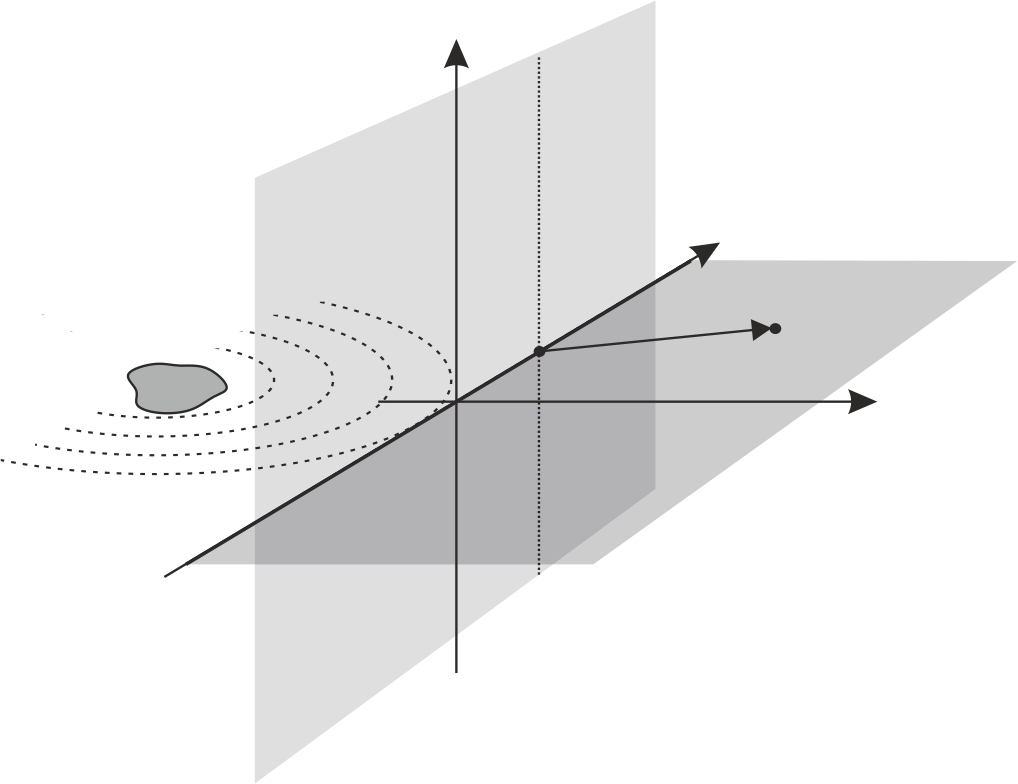
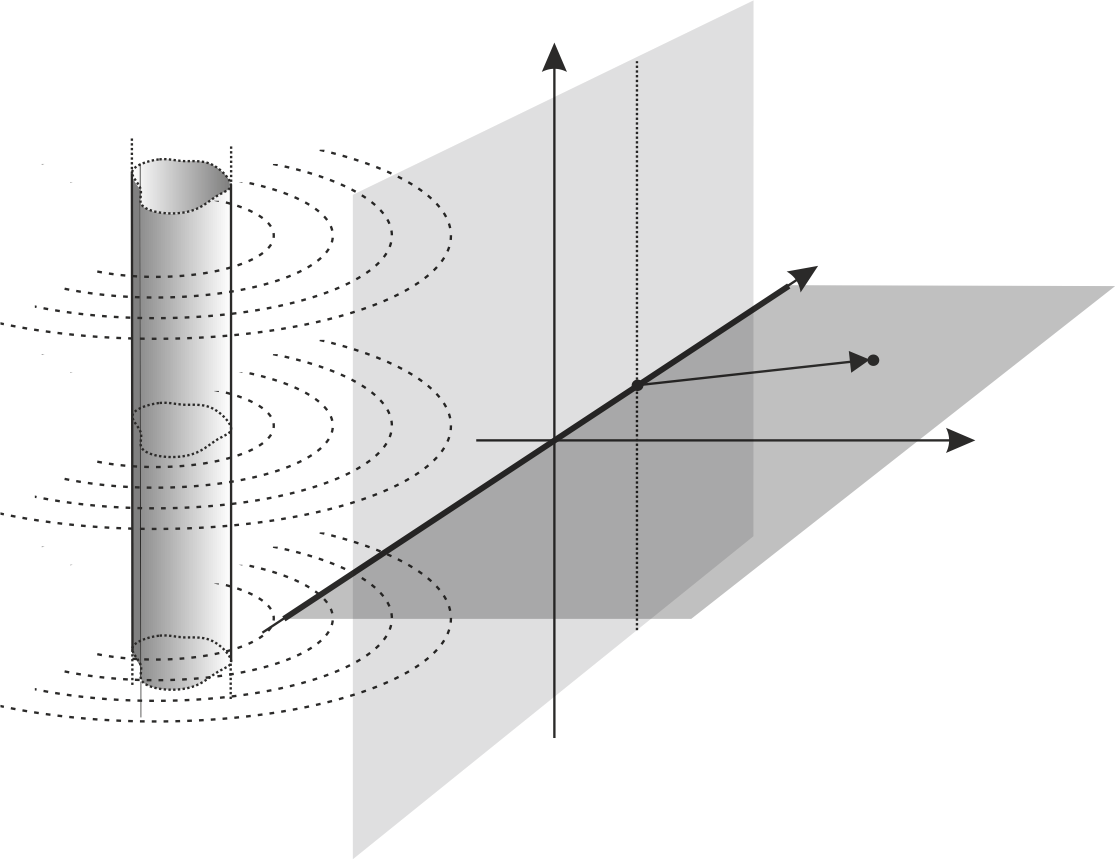
..

Changed region(s): [[0.0, 0.0, 0.944, 1.0], [0.3654, 0.4286, 0.3959, 0.4592]]

diff --git a/LatexProject/2_5D_WFS.tex b/LatexProject/2_5D_WFS.tex
@@ -460,23 +460,23 @@ This is satisfied by an arbitrary 2D sound field invariant along the vertical di
 Note, that these restrictions on the virtual source model are equivalent, with the considerations, given for linear SDM in section \ref{Sec:SFS_theory:linear_SDM}.
 
 For didactic reasons the investigation begins with the case of a height-invariant 2D virtual field, which is later extended for 3D virtual fields.
-
+Such a SPA scenario with the SPA integration path and the vertical stationary position is illustrated by Figure \ref{Fig:WFS_Theory:25D_Rayleigh}.
 %
 \begin{figure}
 	\centering
 	\begin{overpic}[width = 0.6\columnwidth ]{Figures/WFS_theory/25D_Rayleigh_geometry.png}
-%	\scriptsize
-%	\put(17,14){$x$}	
-%	\put(12,28){$y$}	
-%	\put(1, 36){$z$}
-%	\put(33.5,20){$\vxo$}
-%	\put(46.6,31.5){$\vx$}
-%	\put(80,34){synthesis plane}
-%	\put(69,42){$\dO_{3\mathrm{D}}$}
-%	\put(69,23){$\dO_{2.5\mathrm{D}}$}
+	\scriptsize
+	\put(74, 54){$x$}	
+	\put(88, 35){$y$}	
+	\put(47, 74){$z$}
+	\put(80, 45){$\vx$}
+	\put(53, 43){$\vxo^*$}
+	\put(45, 24){synthesis plane}
+	\put(58, 61){SPA integral path}
+	\put(-1, 62){\parbox{.5in}{2D virtual source}}
 	\end{overpic}
-\caption{General 3D WFS geometry }
-	\label{Fig:WFS_Theory:non_linear_geometry}
+\caption{Geometry for derivation of the 2.5D Neumann Rayleigh integral in case of a general 2D virtual sound field.}
+	\label{Fig:WFS_Theory:25D_Rayleigh}
 \end{figure}
 %
 
@@ -489,7 +489,7 @@ P_{2\mathrm{D}}(\vx,\omega) = \int_{-\infty}^{\infty}
 \underbrace{\int_{-\infty}^{\infty}  G(\vx-\vxo, \omega) \td z_0 }_{G_{2\mathrm{D}}(\vx-\vxo, \omega)} \td x_0.
 \label{eq:25D_WFS:2D_neumann} 
 \end{equation}
-Based on the considerations above, the vertical stationary point lies at $z_0^* = 0$.
+Based on the considerations above with the receiver position fixed to $z=0$ the vertical stationary point lies at $z_0^* = 0$.
 With the required second phase derivative reading
 %\begin{equation}
 $ \phi_{zz}^{G''}(\vx - \vxo,\omega) = -k \frac{1}{|\vx - \vxo|}$
